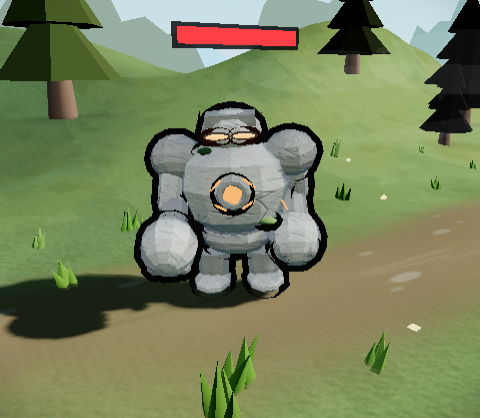
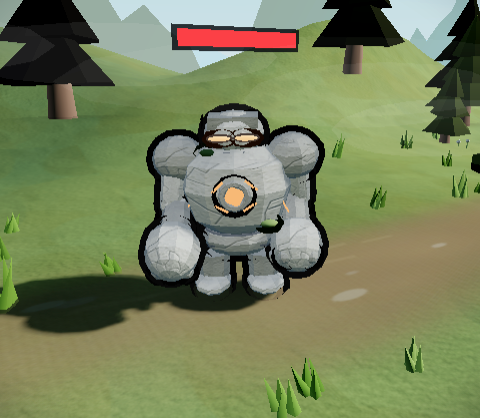
AO 링에 감쇠 알파맵 — 균일 알파의 '검은 테이프' 인상 제거 (enemy-quality ⓐ)
폐기된 중복 구현에만 있던 개선을 그쪽 인계 메모대로 얹었다. 튜브를 감는 방향으로
이음새선에서 최대 → 옆구리에서 0 으로 죽는 흑백 그라디언트를 alphaMap 에 물린다.
기준 불투명도 0.5→0.75, radialSegments 6→10(6이면 그라디언트가 계단 진다).

인계된 함정 2개를 지켰다: alphaMap 은 알파가 아니라 색을 읽는다 / TorusGeometry 는
uv.y=0 이 바깥 적도다. 방향이 맞았음을 실측으로 확인 — 최대 하락폭이 골렘 53.1→71.2,
임프 70.8→85.4, 버섯 65.8→79.9 로 올랐다(뒤집혔다면 1/3로 죽었을 값이다).

검증: probe-enemy-ao 검사 6종 전부 PASS(후프 유출 0 유지) · probe-enemy-dissolve
전 종 PASS · 전 화면 31/31 콘솔 에러 0

diff --git a/web/js/scene3d.js b/web/js/scene3d.js
@@ -5306,13 +5306,39 @@ const Scene3D = {
         //    이음새가 통째로 사라져 '프리미티브 더미'가 도로 드러난다.
         //    ⑶ 링 반지름은 그 높이의 **실제 몸 반지름과 같거나 살짝 커야** 한다. 작으면 몸 안에
         //    파묻혀 아무것도 안 보이고(무비용 무효과), 너무 크면 실루엣 밖으로 튀어 '후프'가 된다.
-        const aoMat = new THREE.MeshBasicMaterial({ color: 0x0a0d12, transparent: true, opacity: 0.5, depthWrite: false });
+        // 감쇠 알파맵 — 균일 알파면 가까이서 '관절에 검은 테이프를 감은' 인상이 남는다.
+        // 튜브를 감는 방향(uv.y)을 따라 이음새선에서 최대 → 1/4바퀴에서 0 으로 죽여 크레비스처럼 풀리게 한다.
+        // ⚠ 함정 2개(앞 세션이 실측으로 밟아 인계한 것, 여기서 그대로 지킨다):
+        //   ㉠ three 의 `alphaMap` 은 텍스처의 **색(회색조)** 을 읽고 알파 채널은 무시한다 —
+        //      `rgba(...,a)` 로 그리면 전 구간 불투명으로 읽혀 감쇠가 통째로 무시된다. 흑백으로 그릴 것.
+        //   ㉡ `TorusGeometry` 는 **uv.y=0 이 바깥 적도**(몸 밖으로 나오는, 실제로 보이는 쪽)다 —
+        //      감쇠를 가운데 진하게 그리면 정확히 반대로 걸린다. 0(과 1) 쪽이 진해야 한다.
+        //   → 알파맵을 물리면 유효 농도가 떨어지므로 기준 불투명도를 올리고(×1.5) radialSegments 를
+        //     6→10 으로 키운다(6이면 그라디언트가 계단 진다).
+        const aoFade = this._aoFadeTex || (this._aoFadeTex = (() => {
+            const cv = document.createElement('canvas');
+            cv.width = 4; cv.height = 64;
+            const cx = cv.getContext('2d');
+            const gd = cx.createLinearGradient(0, 0, 0, 64);
+            // v=0(바깥 적도)이 가장 진하고, v=0.25/0.75(옆구리)에서 0, v=0.5(안쪽 적도)에서 다시 진하다.
+            gd.addColorStop(0.0, '#ffffff');
+            gd.addColorStop(0.22, '#101010');
+            gd.addColorStop(0.5, '#8a8a8a');
+            gd.addColorStop(0.78, '#101010');
+            gd.addColorStop(1.0, '#ffffff');
+            cx.fillStyle = gd; cx.fillRect(0, 0, 4, 64);
+            const t = new THREE.CanvasTexture(cv);
+            t.wrapS = t.wrapT = THREE.RepeatWrapping;
+            return t;
+        })());
+        const aoMat = new THREE.MeshBasicMaterial({ color: 0x0a0d12, transparent: true, opacity: 0.75, depthWrite: false, alphaMap: aoFade });
         // opt: { flat=상하 납작(기본 .5) · ez=z반경/x반경(타원 몸통용) · op=불투명도 · parent }
         // 토러스는 로컬 XY면 → rotation.x=π/2 로 눕히면 **로컬 y가 월드 z, 로컬 z가 월드 y** 다.
         const aoRing = (r, tube, x, y, z, opt) => {
             const o = opt || {};
-            const m2 = o.op === undefined ? aoMat : new THREE.MeshBasicMaterial({ color: 0x0a0d12, transparent: true, opacity: o.op, depthWrite: false });
-            const ring = new THREE.Mesh(new THREE.TorusGeometry(r, tube, 6, 16), m2);
+            const m2 = o.op === undefined ? aoMat
+                : new THREE.MeshBasicMaterial({ color: 0x0a0d12, transparent: true, opacity: o.op * 1.5, depthWrite: false, alphaMap: aoFade });
+            const ring = new THREE.Mesh(new THREE.TorusGeometry(r, tube, 10, 16), m2);
             // axis:'z' = 부모의 z축을 감는다(꼬리·팔처럼 **누운** 파츠용). 기본은 눕혀서 수평 링.
             if (o.axis !== 'z') ring.rotation.x = Math.PI / 2;
             ring.position.set(x, y, z);

diff --git a/web/TODO.md b/web/TODO.md
@@ -1651,6 +1651,7 @@
   - 진행 메모(3D 스트림 세션, 2026-08-17 15:0x): **② 시대 재질 정체성 완료 → ①②③ 전부 반영. 남은 건 ⑤의 비평가 채점뿐인데 그건 '최후반 폴리싱' 규칙에 걸려 있어 [ ] 유지**(다음 세션은 처음부터 만들 필요 없이 채점만 받으면 된다). **문제의 실체**: 무기는 `weaponMatKind`가 시대를 stone/bone/blackpowder/gunmetal/energy로 이미 갈라놨는데 **투구·갑옷·장신구는 전 시대가 같은 식 하나**였다 — `new THREE.Color(시대색).lerp(스틸, 0.32) + metalness .85`. 그래서 원시 '뼈 투구'도 매끈한 회백 금속으로 나와 **시대색만 다른 같은 물건**으로 읽혔다. **넣은 것**: ① `Scene3D.ageGearKind(age)`/`ageGearMats(age)` 신설 — 무기와 **같은 시대 구획**(0 primal / 1 forged / 2 brass / 3 polymer / 4+ alloy)으로 body·dark·trim 3종 재질을 굽는다. primal=돌 입자 맵+flatShading+metalness .02, forged=브러시드 결 맵+.86, brass=황동 .8, polymer=무광 폴리머 .34, alloy=어두운 합금 .9+언릿 발광 트림. ② `Scene3D.addAgeTrim(g, mats)` — 조립이 끝난 그룹의 **바운딩 박스에서 아랫단 밴드를 역산**해 계열별 디테일을 두른다(리벳 8개 / 발광 링+세로 스트립 / 가죽끈+뼈이빨 3개 / 황동 밴드+스터드 4개 / 벤트 슬랫 3줄). 스타일이 투구 11종·갑옷 6종이라 **좌표 상수로는 못 맞춘다** — 실제 크기에서 재는 게 유일한 방법. ③ 적용처: `makeHelmet`(인게임 투구와 공용) · `makeArmorPreview` · `makeArmorExtras`(4번째 인자로 mats, 인게임 호출부도 전달) · `makeAccessoryPreview`. **⚠ 두 번 밟은 함정**: ⑴ **맵은 albedo에 곱해진다** — rockTex 베이스가 #b9bcc0(≈0.73), leatherTex가 #c9b8a6이라 맵을 얹는 계열은 color를 그만큼 올려두지 않으면 시대색이 통째로 한 단 어두워진다(primal·forged에 +0.06 명도 보정). ⑵ **링은 원이 아니라 타원이어야 한다** — 갑옷 몸통은 0.46×0.30 박스라 원 링을 두르면 앞뒤로 6cm 떠서 '허공의 고리'가 된다. `ellipseRing()`이 토러스를 눕힌 뒤 scale.y로 z반경을 맞춘다(rotation.x=π/2면 **로컬 y가 월드 z**). ⑶ 갑옷 트림은 **견갑·망토를 붙이기 전에** 둘러야 한다 — 다 붙인 뒤 재면 반경이 0.23→0.44로 커져 리벳이 가슴 앞 허공에 뜬다. ⑷ 하드코딩된 파생 재질(`metalness: 0.85` 고정으로 만들던 림·코가드·가면판·tech 셸)을 `tintOf(base, 명도차)`로 갈았다 — 안 그러면 원시 투구에 강철 림만 반짝인다. **가죽·로브 계열**(hide/robe/망토/로브자락)은 시대색은 유지한 채 metalness만 빼서 '철판 원피스'를 막았다. **검증**: `web/tools/probe-age-materials.js`(신설) 5항목 전부 통과 — 재질 계열 5구획 / 계열별 PBR 서명 5종 고유 / 전 10시대 디테일 부착(원시 4개·중세 8개·근세 5개·현대 3개·미래 2개) / 시대별 썸네일 픽셀 전부 상이 / 콘솔 에러 0. 컨택트 시트 `web/tools/shot-age-gear.js` → `web/tools/age-gear.png`(시대 10행 × 부위 6열, 192px). 회귀: probe-screens-errors 31/31 · probe-forge-list-thumbs 5항목 전부 통과(그룹 80개 중복 0 유지). **⚠ 별건 발견 — `web/tools/shot-helm.js`의 카메라 피팅이 깨져 있다**: 투구가 아니라 **뒤쪽 풍경**이 찍힌다(내 변경 전 코드로 되돌려 찍어도 같은 그림 = 기존 결함, 회귀 아님). 투구를 근접 검증하려는 다음 세션은 이 도구부터 고칠 것.
   - 진행 메모(3D 스트림 세션, 2026-08-17 13:xx): **①·③ 완료, ② 시대 재질 정체성만 남음 — [ ] 유지.** **① 이모지 반복 제거**: `renderForgeListView`가 부위별 고정 이모지(🪖/👕/SLOT_EMOJI)를 이름 개수만큼 찍던 걸, 이미 있던 3D 스냅샷 파이프라인(`Scene3D.itemThumb` — 장비 상세 팝업이 쓰던 것)으로 교체했다. **③ 이름 정합(부분)**: 중복의 진짜 원인은 목록 렌더가 아니라 `HELMET_STYLES`/`ARMOR_STYLES`가 **한 시대 안에서 같은 스타일을 두 번 쓰던 것**이었다(예: 원시 helmet `['hair','mask','mask','visor','plume']` → 가면과 전투 페인트가 같은 모델). 스타일이 곧 프리뷰 모델이라 이름만 다르고 그림이 같았다 — 두 표를 **시대 안에서 전부 고유**하도록 이름 뜻에 맞춰 재배정했다(깃털 모자=plume, 뱀의 화관=crown 식). 실측: (시대,부위) 80개 그룹 **전부 고유, 중복 0** (이전 17개 그룹 중복). **하이드레이트 방식 주의**: 셀이 306개라 목록 열 때 전부 구우면 얼어붙는다(첫 `itemThumb`가 썸네일 렌더러+PMREM을 만드느라 소프트웨어 GL 실측 2.4초). 프레임당 6장씩 나눠 굽고 목록이 닫히거나 재렌더되면 중단한다. **IntersectionObserver 지연 로딩은 쓰지 말 것 — 헤드리스에서 콜백이 아예 안 와서 썸네일이 하나도 안 뜬다(실측).** 밝은 장비가 흰 칸에 묻혀 빈 칸처럼 보여 `.fl-face.has-thumb`에 옅은 바탕만 추가. **남은 일 ②**: 시대별 재질 언어(원시=돌·나무·뼈·가죽, 중세=단조 철·리벳, 미래=합금·발광 라인)를 실제 프리뷰 모델 재질에 반영 — 지금은 시대색만 다르고 재질감은 공통이라 원시 장비도 매끈한 회백색으로 나온다. 검증: `web/tools/probe-forge-list-thumbs.js` 5항목 통과, 목록 캡처 `web/tools/forge-list-thumbs.png`, 전 화면 스모크 31/31 콘솔 에러 0건.
 - [ ] **적 몬스터 퀄리티 업 (slug: enemy-quality) (사용자 지시)**: GLB 삭제로 복귀한 프로시저럴 적 7종(슬라임·골렘·고블린·박쥐·버섯·늑대·임프)+보스 변형의 품질을 영웅과 같은 수준으로 끌어올릴 것 — 영웅에 적용한 기법(캔버스 생성 텍스처, AO 링, 관절 분절 리그, 베벨 지오메트리, 얼굴 디테일)을 적에도 적용하고, 종별 개성(실루엣·재질·고유 모션)을 강화. 비평가 'AAA 모바일 3D 게임 적으로 믿을 수 있는가' 9/10 통과제, 종 단위로 나눠 커밋 가능.
+  - 진행 메모(3D 스트림, 2026-08-18 03:3x — **바로 아래 '주워 갈 것 하나'(AO 링 감쇠 알파맵) 처리 완료**): 폐기된 중복 구현에만 있던 개선을 인계 메모대로 얹었다. 4×64 흑백 세로 그라디언트를 `CanvasTexture` 로 구워 `alphaMap` 에 물리고, 기준 불투명도 0.5→0.75(op 지정 링은 ×1.5), `radialSegments` 6→10. **인계된 함정 2개를 그대로 지켰다** — ㉠ 알파 채널이 아니라 **색(회색조)** 으로 그렸다 ㉡ `uv.y=0 이 바깥 적도`라 **0(과 1) 쪽을 진하게** 깔았다(가운데를 진하게 깔면 정확히 반대로 걸린다). **실측으로 방향이 맞았음을 확인**: `probe-enemy-ao` 최대 하락폭이 골렘 53.1→**71.2** · 임프 70.8→**85.4** · 버섯 65.8→**79.9** 로 **올랐다**(뒤집혔다면 인계 메모대로 1/3로 죽었을 것이다). 이음새 심은 더 진해지고 옆구리로 갈수록 풀려 '검은 테이프' 인상이 사라졌다. 커버리지(어두워진 화소 104~296)와 **후프 유출 0** 은 그대로 유지. 회귀: `probe-enemy-ao` **검사 6종 전부 PASS** · `probe-enemy-dissolve` **전 종 PASS**(알파맵 재질도 `dissolveBase` 경로를 정상으로 탄다) · `probe-screens-errors` **31/31 콘솔 에러 0** · `enemy-golem.png` 재촬영.
   - ⚠ **중복 구현 사고 기록 + 다음 세션이 주워 갈 것 하나 (3D 스트림, 2026-08-18)**: 이 항목의 ⓐ(AO 링)는 **두 세션이 락을 각각 잡은 상태로 동시에 구현**했다(원인은 위 🔒 섹션 2번에 새로 적은 refresh push 실패 → 락 STALE 회수). 머지된 건 링 22개짜리 쪽이고, 나머지 한 벌(링 54개)은 **중복이라 폐기했다** — 되살리지 말 것. 다만 폐기한 쪽에만 있고 머지된 쪽에는 **없는** 개선이 하나 있으니 ⓑ~ⓕ 하는 김에 얹으면 값이 크다: **AO 링에 감쇠 알파맵을 물리는 것.** 지금 링은 균일 알파(0.42~0.58)라 가까이서 보면 '관절에 검은 테이프를 감은' 인상이 남는다. 토러스 UV 의 v(튜브를 감는 방향)를 따라 이음새선에서 최대 → 1/4바퀴에서 0 으로 죽는 회색조 캔버스(4×64)를 만들어 `alphaMap` 으로 물리면 진짜 크레비스 그림자처럼 부드럽게 풀린다. **함정 2개(둘 다 실측으로 밟았다)**: ㉠ three 의 `alphaMap` 은 텍스처의 **색(회색조)** 을 읽고 알파 채널은 무시한다 — `rgba(...,a)` 로 그리면 전 구간 불투명으로 읽혀 감쇠가 통째로 무시된다. ㉡ `TorusGeometry` 는 **uv.y=0 이 바깥 적도**(=몸 밖으로 나오는, 실제로 보이는 쪽)다 — 감쇠를 가운데 진하게 그리면 정확히 반대로 걸려 어두워짐이 1/3로 죽는다(실측 평균 -30 → -10). 그리고 알파맵을 물리면 유효 농도가 떨어지므로 기준 불투명도를 1.5배쯤 올려 다시 실측할 것. `radialSegments` 는 6이면 그라디언트가 계단 지므로 10으로. **얹은 뒤에는 `probe-enemy-ao.js` 를 반드시 다시 돌릴 것** — 농도가 바뀌면 링 반경 튜닝(후프 유출/파묻힘)이 같이 흔들린다.
   - 진행 메모(3D 스트림, 2026-08-18 02:1x~02:4x — **잔여 ⓐ(AO 링) 완료. ⓑ~ⓕ 남아 [ ] 유지**): ■ **실체**: 앞 메모가 '영웅엔 있고 적엔 없다'고 적어 둔 그대로였다 — 적 7종은 구·원기둥을 **겹쳐 놓기만** 해서 목·허리·어깨 소켓·갓 밑 이음새가 그대로 드러나 '프리미티브 더미'로 읽혔다. 영웅 리그(`ProChar` 의 aoRing)와 같은 기법을 종별 이음새로 옮겼다. ■ **넣은 것**: `monsterMesh` 안에 `aoRing(r, tube, x, y, z, opt)` 헬퍼 신설(opt: flat=상하 납작 · ez=z반경비(타원 몸통) · op=불투명도 · axis:'z'=누운 파츠 축을 감기 · parent). 배치 **22개** — 골렘 4(목·허리·다리 소켓 2) · 고블린 4(목·허리·고관절 2, 고관절은 hip 그룹에 매달아 스윙을 따라간다) · 박쥐 3(목·날개 소켓 2) · 버섯 2(**갓 밑**=이 종 최대 이음새, capG 에 매달아 갓이 출렁이면 그늘도 같이 움직인다·밑동 접지) · 늑대 5(네 다리 소켓은 leg 그룹에 매달아 질주를 따라간다·꼬리 밑동은 axis:'z') · 임프 4(목·허리·날개 소켓 2). **슬라임은 의도적으로 0개** — 라테 한 장 + 몸속 핵이라 **이음새가 없는 종**이고, 바닥 퍼짐부에 둘러 봤더니 바로 위 최대 둘레(y0.07 에서 r0.5)가 처마처럼 덮어 **기여 0픽셀**이었다(접지는 블롭 섀도가 이미 맡는다). 슬라임에 필요한 건 AO 가 아니라 ⓑ의 관절 분절이다. ■ 🚨 **함정 4건 — 전부 신설 `tools/probe-enemy-ao.js` 가 잡아냈고, 육안으로는 하나도 안 보였다**: ㉠ **`setShadow` 가 링까지 그림자 캐스터로 만든다.** 섀도맵은 알파를 안 보므로 반투명 링이 **불투명 원반**으로 투영돼 지면에 큰 검은 자국을 남긴다 — 실측 고블린·임프에서 **배경 화소 17만 개**(화면 절반)가 어두워졌다. `setShadow` 에 `userData.aoRing` 제외를 넣어 해결(아웃라인 셸 제외와 같은 자리). ㉡ **반지름이 조금만 작으면 몸 안에 완전히 파묻혀 0픽셀**이고, 콘솔 에러도 캡처 이상도 없어 '넣었는데 안 보이네'와 '아예 안 들어갔네'가 구분되지 않는다. 늑대 다리 링을 근육 덩어리 높이(y0.375)에 뒀더니 **5개 전부 0픽셀** — 흉곽 구(r 0.19×0.9)가 그 높이의 |x|=0.11 을 통째로 덮는다. 몸통 반폭이 0.088 로 줄어드는 **y≈0.27** 이 다리가 실제로 드러나는 첫 높이다. ㉢ 🚨 **렌더와 픽셀 읽기를 서로 다른 `page.evaluate` 에서 하면 안 된다** — 메인 렌더러가 preserveDrawingBuffer 가 아니라 그 사이에 드로잉 버퍼가 비워져 **검은 판**이 읽힌다. 실측: 같은 코드로 박쥐가 한 번은 66px, 다음 실행에서 **197,862px** 로 튀고 임프는 배경까지 17만 화소가 '어두워졌다'고 나왔다 — 링과 무관한 계측 아티팩트다. **한 evaluate 안에서 render→drawImage** 를 붙일 것. ㉣ **'실루엣 밖 유출 0' 을 곧이곧대로 재면 잘 앉힌 링도 전부 걸린다**(실측 5~52px) — 곡면을 감는 링은 접선 자리에서 반드시 서브픽셀만큼 비어져 나오고 그 앤티앨리어싱 화소가 배경 휘도와 구분이 안 된다. 실루엣 마스크를 **2px 부풀려** '경계AA'와 '진짜 후프'를 가른다. 그렇게 갈랐더니 남은 진짜 후프는 버섯 4px 하나뿐이었고, 원인은 갓 밑 링이 아니라 **밑동 링**이었다(줄기 라테는 y0.02 에서 r≈0.144 인데 0.158 로 뒀다 → 0.146). ■ **검증**: `probe-enemy-ao` **검사 6종 전부 PASS**(어두워진 화소 101~300 · 최대 하락 50.6~70.8 · 진짜 후프 유출 **전 종 0** · 콘솔 에러 0), 링 미적용 1종(슬라임)은 해당 없음으로 제외. `probe-screens-errors` **31/31 콘솔 에러 0**. 7종 캡처 `tools/enemy-*.png` 갱신(콘솔 에러 0). ■ **다음 세션 착수 지점 = ⓑ 관절 분절 리그**(슬라임·버섯이 아직 통짜 — 슬라임은 AO 로는 손댈 수 없는 종이라 여기서만 좋아진다) → ⓒ 베벨 지오메트리 → ⓓ 종별 고유 모션 → ⓔ 보스 변형 → ⓕ 비평가 9/10 채점.
   - 진행 메모(3D 스트림, 2026-08-18 02:4x~03:0x — **잔여 ⓑ 중 슬라임 완료. 버섯 분절·ⓒ~ⓕ 남아 [ ] 유지**): ■ **실체**: 슬라임의 '통짜'는 메시가 한 장이라는 뜻만이 아니었다 — 점프 스쿼시가 `body.scale.y/x` 를 **통째로 흔드는 강체 스케일**이었다. 그건 젤리가 아니라 **크기가 변하는 풍선**이다. 진짜 젤리는 바닥이 먼저 눌리고 그 눌림이 **위로 늦게 전파**된다. ■ **넣은 것**: `Scene3D.driveJelly(m, clk, amp, id)` 신설 — 라테 정점마다 **자기 높이에 비례하는 위상 지연**(`lag` 1.15rad)을 줘 스쿼시가 파도처럼 타고 오르게 한다. 세로가 눌리는 만큼 가로를 부풀려(0.55배) 부피를 근사 보존한다. 원본 정점을 `anim.jelly.base` 에 떠 두고 **매 프레임 거기서 다시 계산**한다(누적 변형은 몇 초 만에 뭉갠다). 이동 중 amp 0.16, 대기 중 0.06 — 대기에도 미세하게 흔들려야 젤리로 읽힌다. ■ **함정 1건**: 몸통만 변형하면 **핵·기포·광택·눈·입이 제자리에 남아 몸이 눌릴 때 얼굴이 몸 밖으로 빠져나온다.** 슬라임 조립이 끝난 시점에 `g.children` 을 스냅샷해(`anim.jelly.follow`, 8개) 부속도 자기 높이의 배율로 같이 옮긴다. ✅ **아웃라인은 손댈 필요가 없었다** — `ProChar.addOutline` 은 `new THREE.Mesh(o.geometry, mat)` 로 **지오메트리를 공유**하므로 정점 변형이 셸에도 자동 반영된다(게다가 슬라임은 반투명 몸통이라 아웃라인 대상에서 통째로 제외된다). ■ **검증**: 신설 `tools/probe-slime-jelly.js` — 렌더 없이 시간을 수동으로 흘리며 정점을 직접 읽어 6항목 **전부 통과**. 핵심 수치: 바닥 대비 **정수리 지연 3프레임**(상관 0.981 — 강체 스케일이면 0이다) · 같은 순간 높이별 압축률 차이 **0.117**(비강체) · 가장 눌린 순간 세로 0.846 / 가로 1.085(부피 보존) · 부속 추종 8개 · 핵 이동폭 0.046. 회귀: `probe-enemy-ao` 3종 재확인 PASS · `probe-screens-errors` **31/31 콘솔 에러 0** · `enemy-slime.png` 재촬영(콘솔 에러 0). ■ **다음 세션 착수 지점**: ⓑ의 **버섯 분절**(갓만 `anim.cap` 으로 흔들리고 줄기는 강체 — 갓 테두리가 늘어지는 2차 모션이 없다. 슬라임과 같은 방식으로 갓 라테에 지연 웨이브를 주면 된다) → ⓒ 베벨 지오메트리 → ⓓ 종별 고유 모션 → ⓔ 보스 변형 → ⓕ 비평가 9/10 채점.
